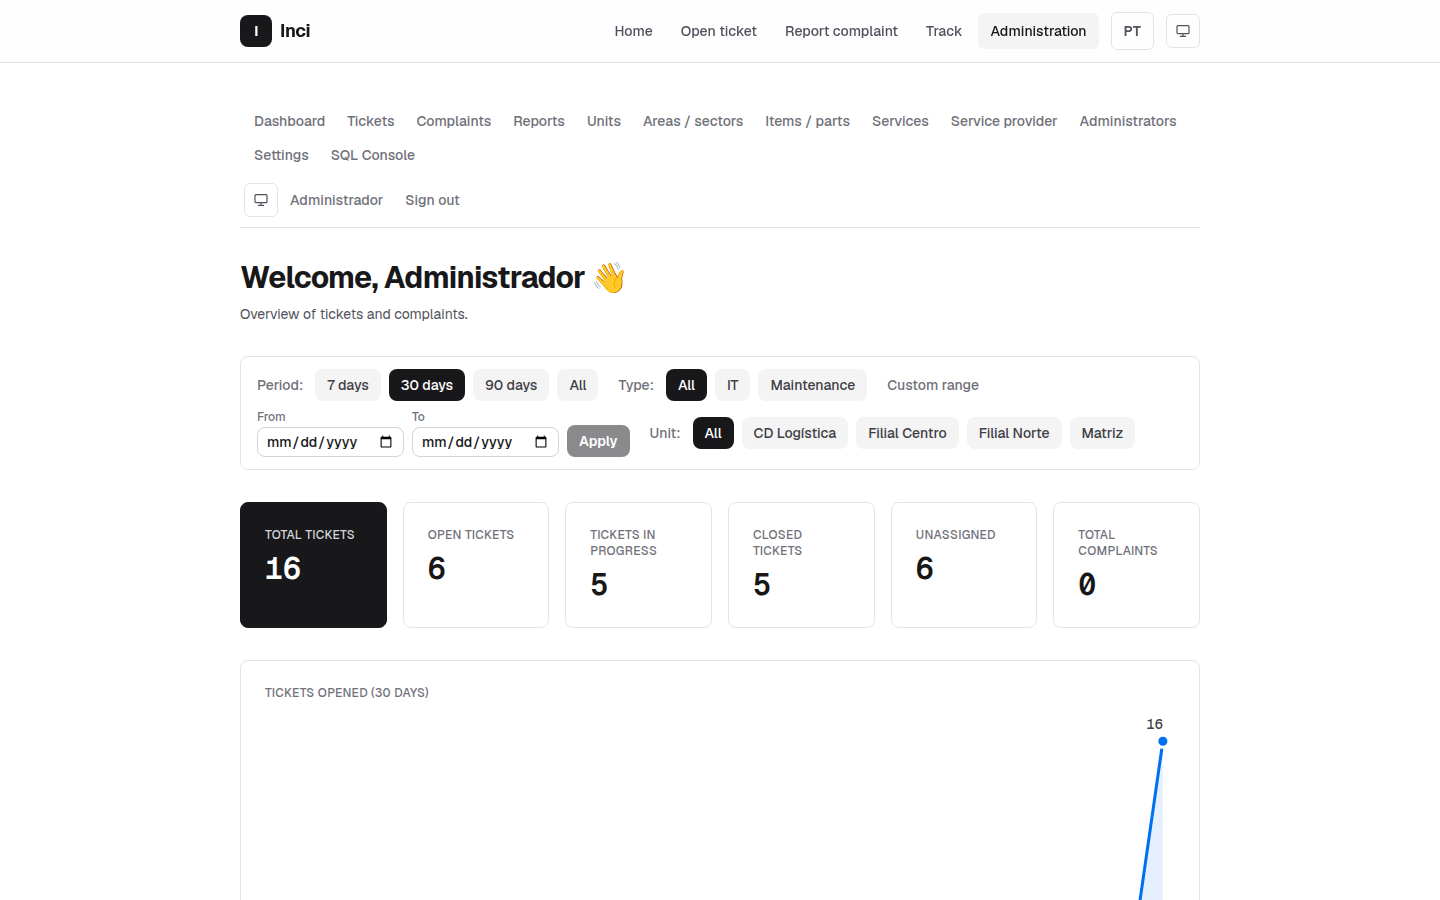
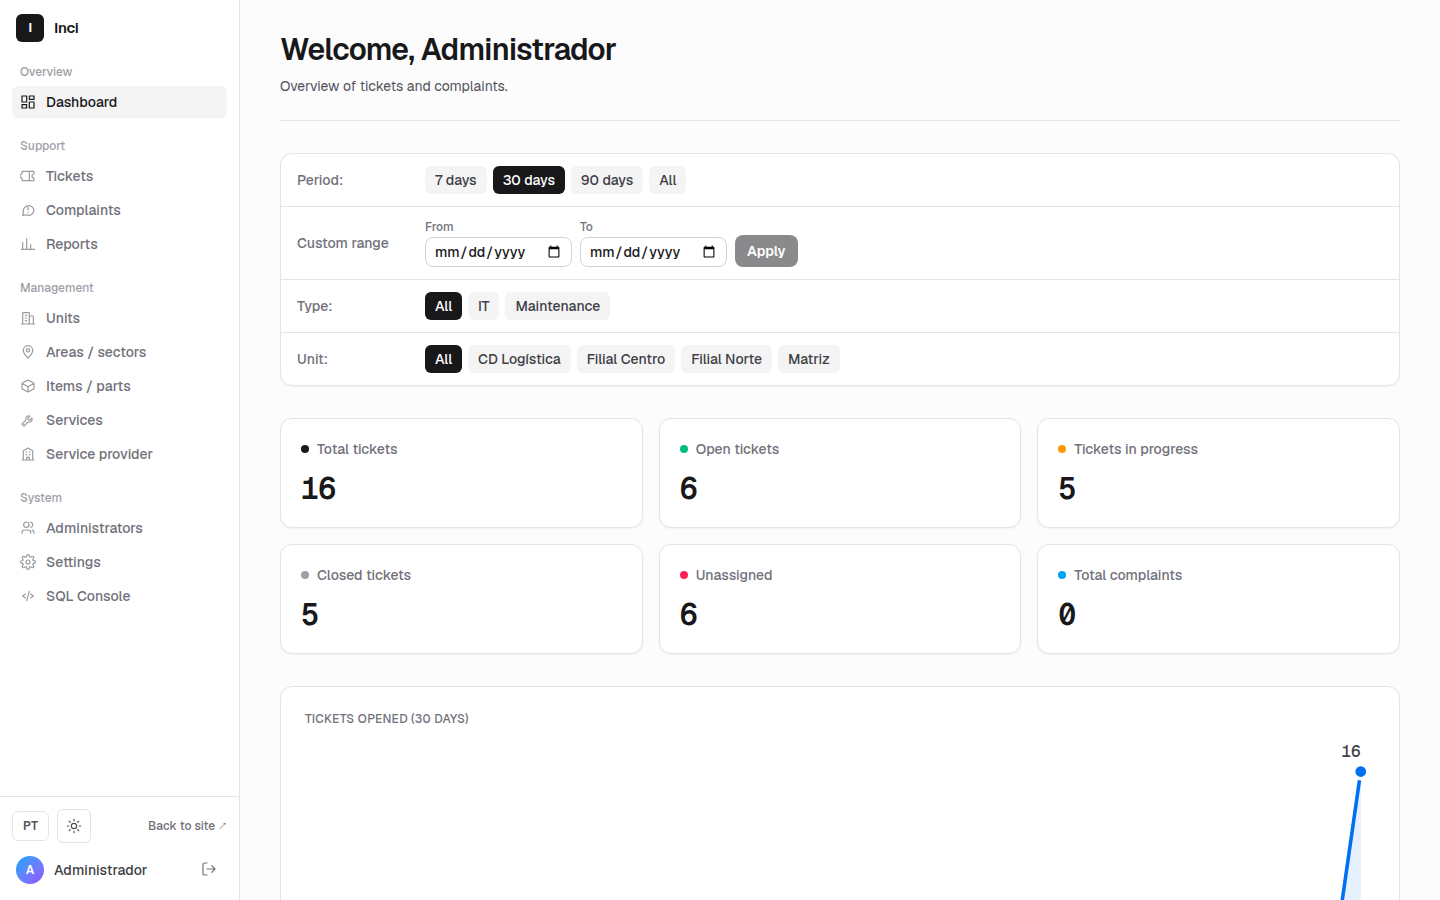
docs: retake admin screenshots for sidebar layout

diff --git a/README.md b/README.md
@@ -24,6 +24,8 @@ Built with [Next.js 16](https://nextjs.org) (App Router) + React 19 + TypeScript
 
 ### Admin (`/admin`)
 - Login with an HMAC-signed session (`httpOnly` cookie).
+- Vercel-style dashboard shell: fixed sidebar navigation grouped by section
+  (collapses into a drawer on mobile), with theme and language switches.
 - Dashboard with ticket and complaint statistics, filterable by period, type,
   and unit.
 - Tickets: filtered listing, detail view, replies, type reassignment
@@ -156,7 +158,7 @@ node --experimental-strip-types --loader ./scripts/ts-resolve-hook.mjs scripts/s
 
 |  |  |
 |---|---|
-| **Open ticket** — matrícula, type, unit, area, and attachments | **Admin dashboard** — overview filterable by period, type, and unit |
+| **Open ticket** — matrícula, type, unit, area, and attachments | **Admin dashboard** — sidebar navigation and an overview filterable by period, type, and unit |
 | ![Open ticket](docs/screenshots/new-ticket.png) | ![Admin dashboard](docs/screenshots/admin-dashboard.png) |
 | **Ticket list** — dense table with status, type, unit, and matrícula | **Ticket detail** — type reassignment, deletion, message history |
 | ![Ticket list](docs/screenshots/admin-tickets.png) | ![Ticket detail](docs/screenshots/admin-ticket-detail.png) |
